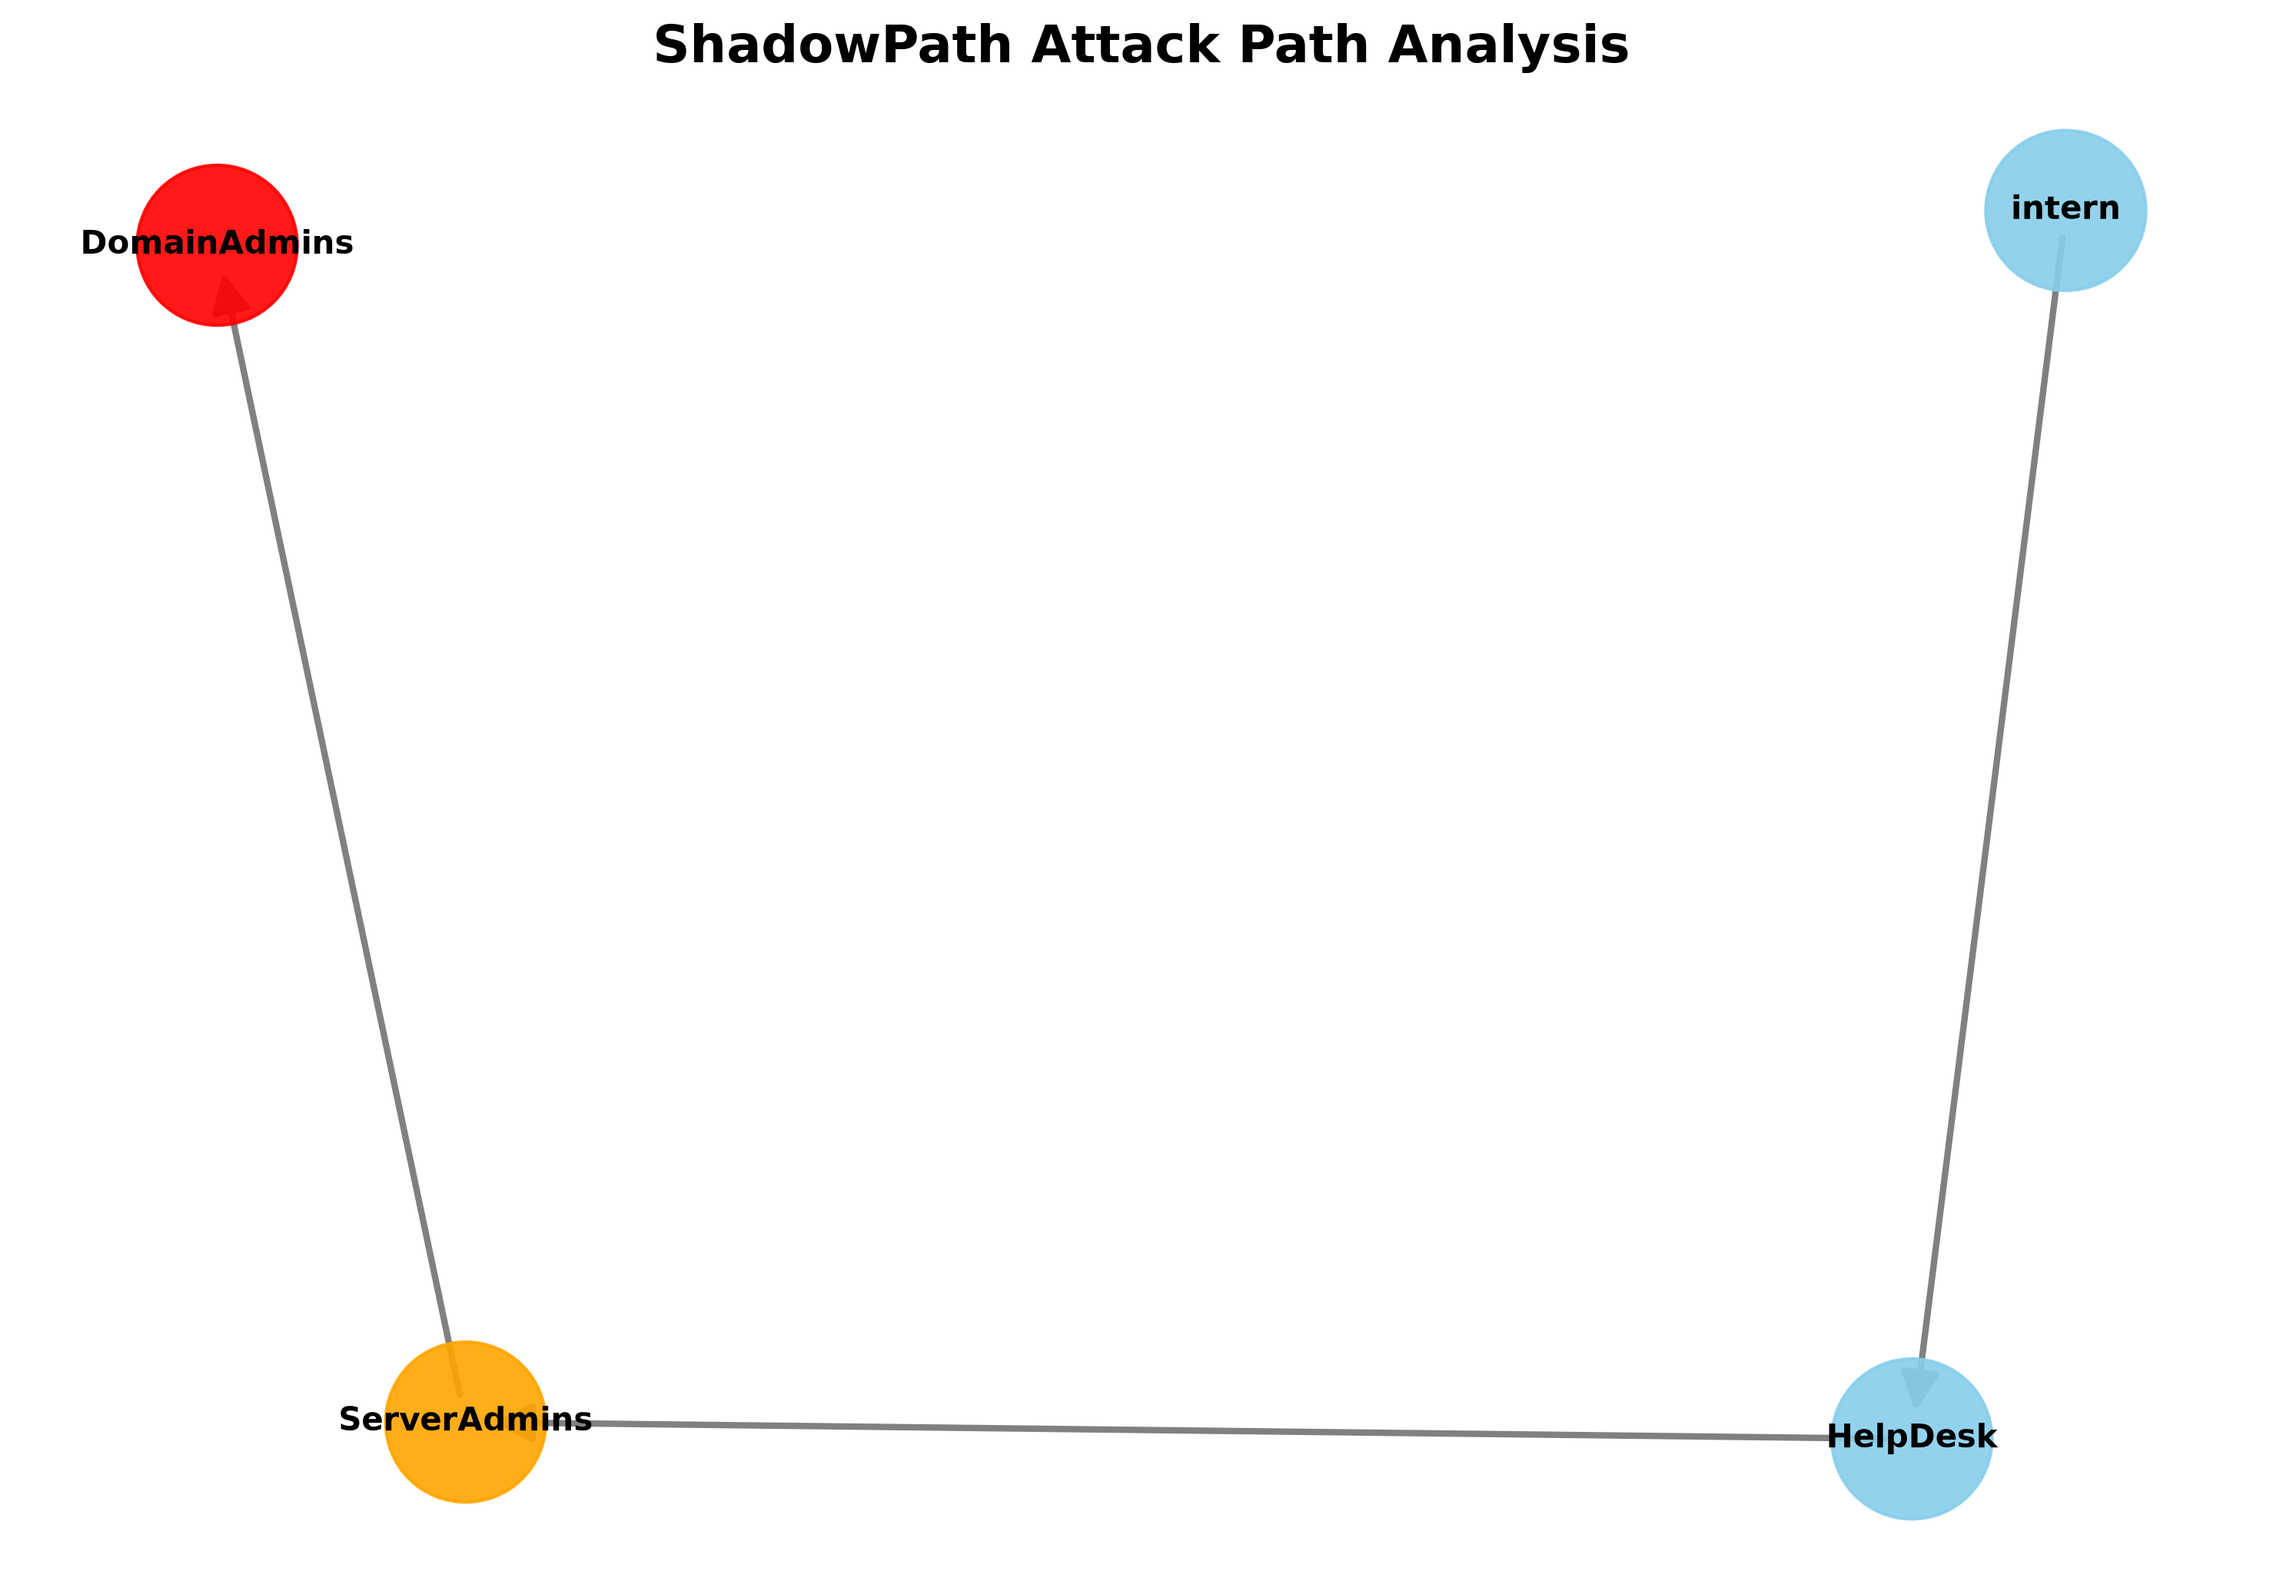
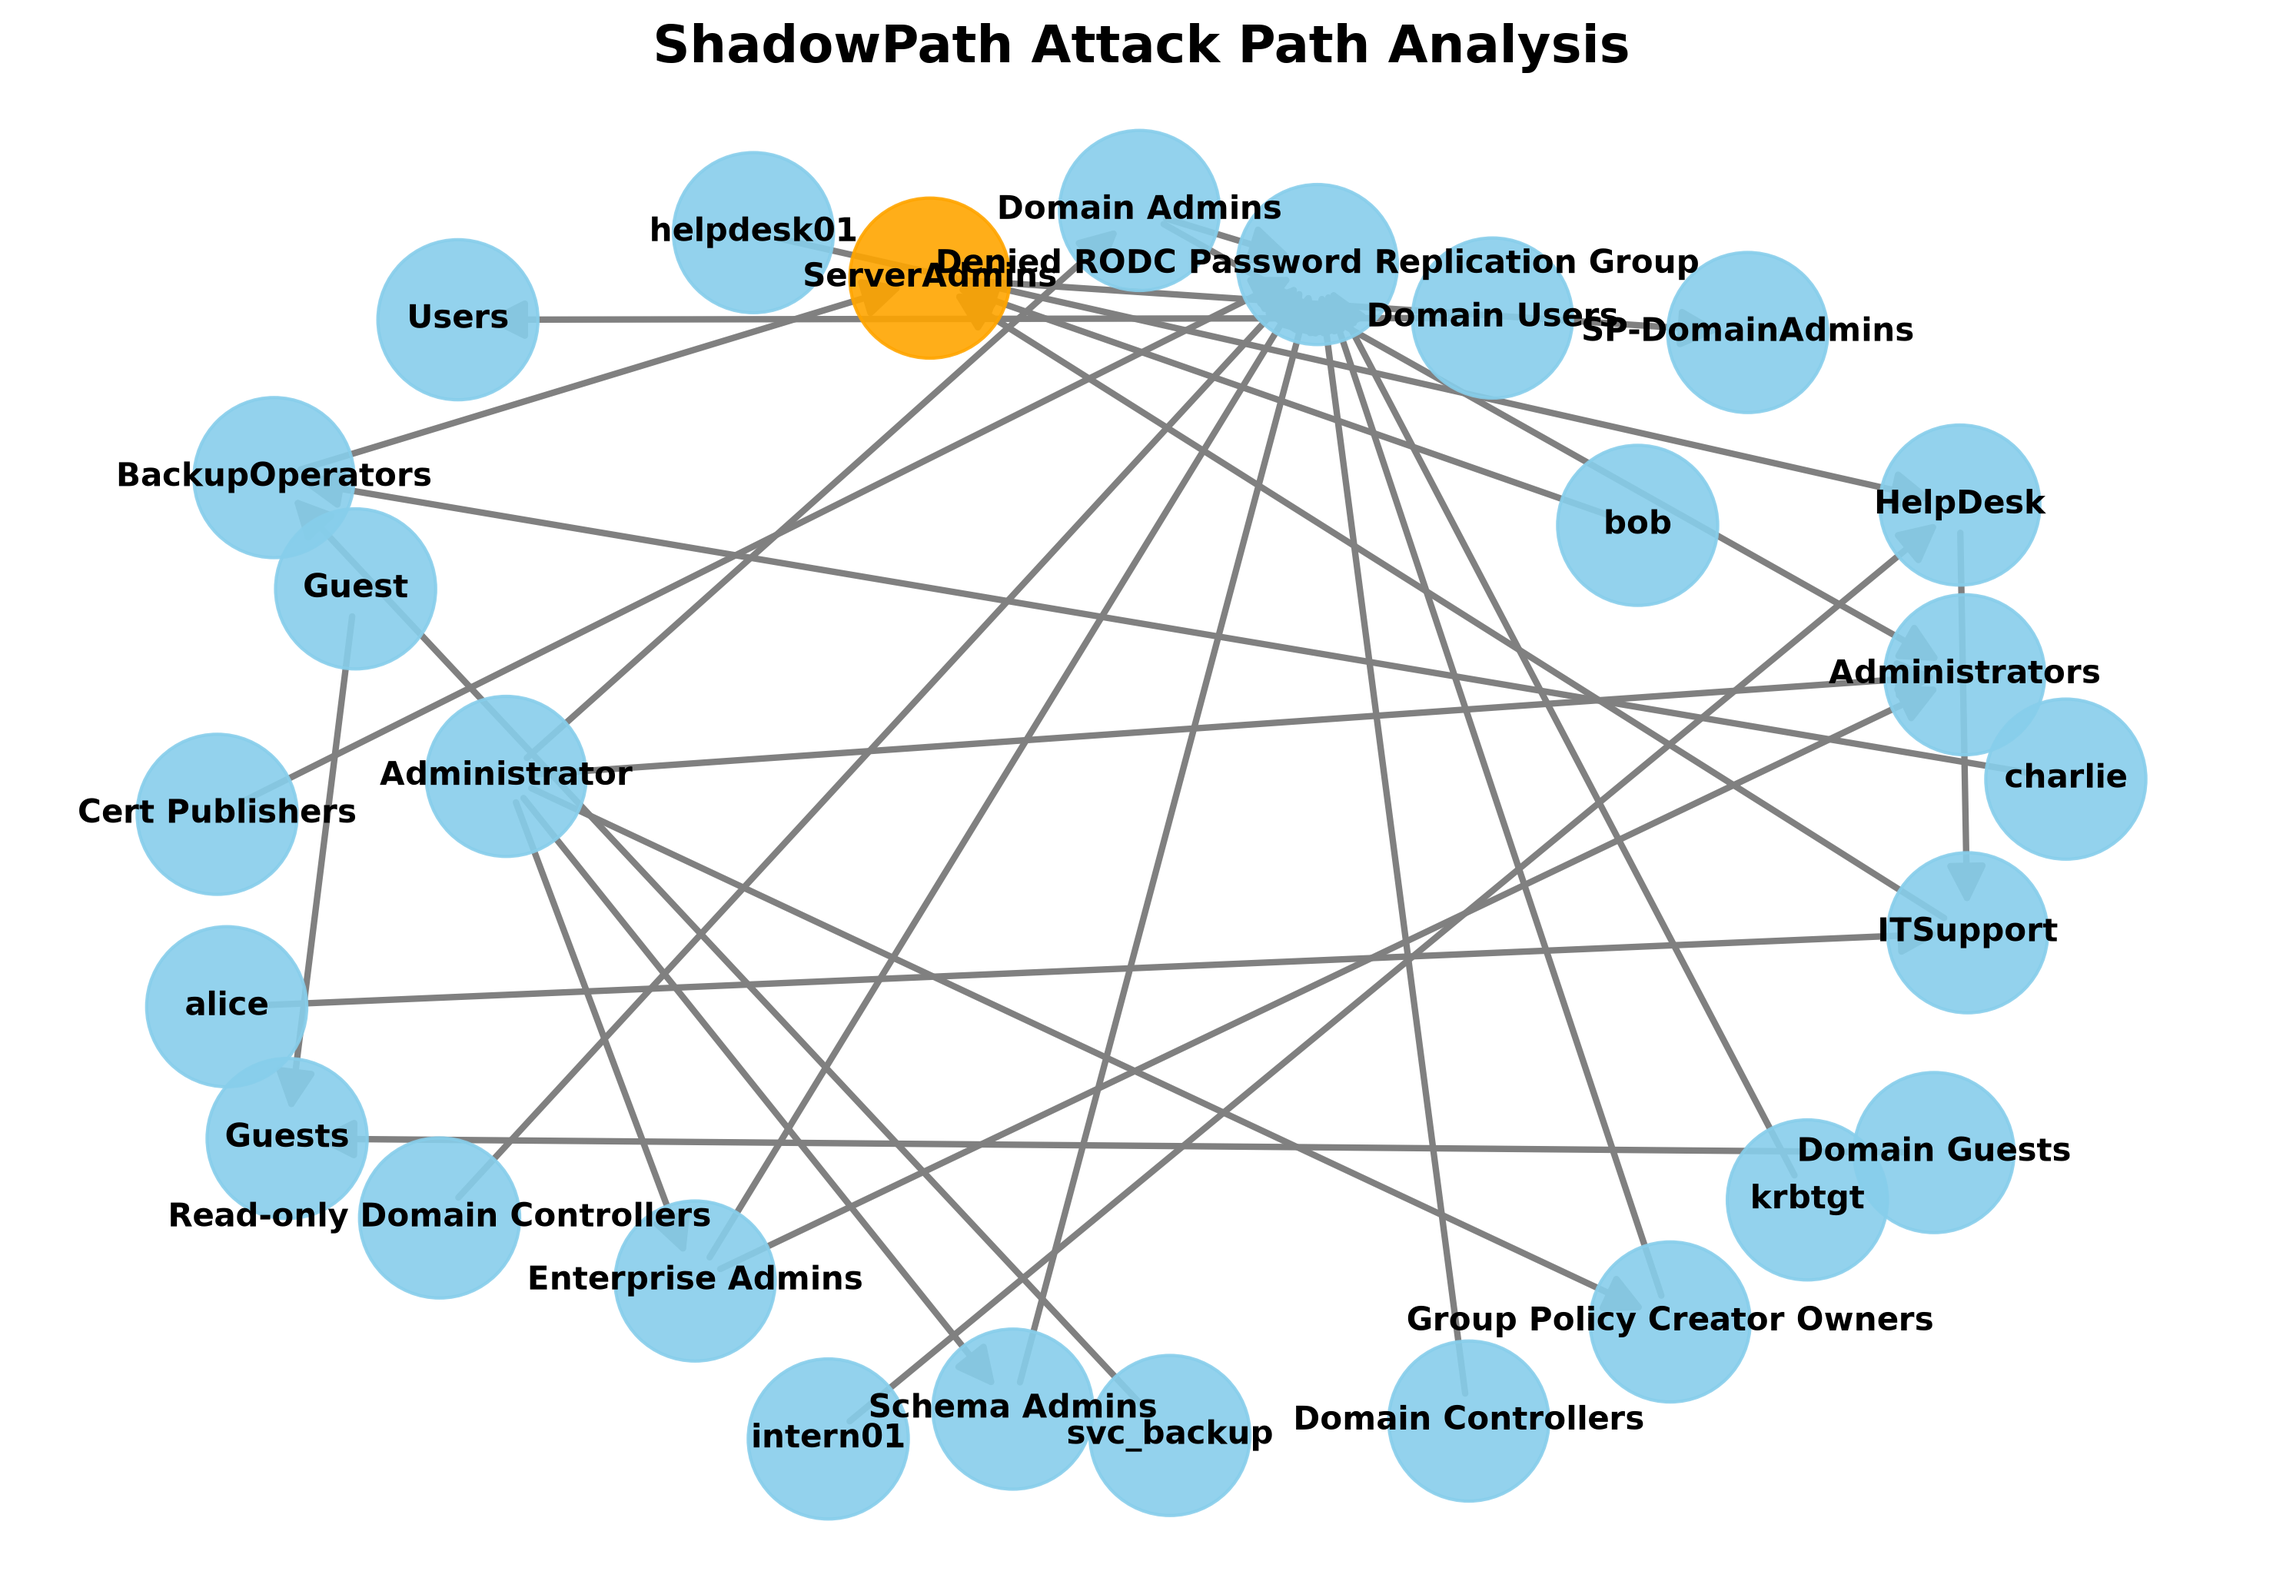
Integrate live Active Directory into analysis pipeline

diff --git a/src/main.py b/src/main.py
@@ -1,4 +1,5 @@
-from core.parser import load_relationships
+from ad.ldap_collector import LDAPCollector
+from ad.relationship_builder import RelationshipBuilder
 from core.graph_builder import build_graph
 
 from analysis.attack_paths import find_attack_paths
@@ -12,9 +13,18 @@ from visualization.graph_visualizer import visualize_graph
 
 
 def main():
-    relationships = load_relationships(
-        "../data/sample_domain.json"
+    collector = LDAPCollector(
+        server_ip="192.168.56.10",
+        username="SHADOWPATH\\Administrator",
+        password="Password123!",
+        base_dn="DC=shadowpath,DC=local"
     )
+
+    collector.connect()
+
+    builder = RelationshipBuilder(collector)
+
+    relationships = builder.build()
 
     print("Loaded Relationships:\n")
 

diff --git a/src/ad/relationship_builder.py b/src/ad/relationship_builder.py
@@ -1,10 +1,25 @@
-class RelationshipBuilder:
+from core.models import Relationship
+from ad.ldap_collector import LDAPCollector
 
-    def build_relationships(
-            self,
-            users,
-            groups
+
+class RelationshipBuilder:
+    def __init__(
+        self,
+        collector: LDAPCollector
     ):
+        self.collector = collector
+
+    def build(self) -> list[Relationship]:
+        memberships = self.collector.get_group_memberships()
+
         relationships = []
+
+        for membership in memberships:
+            relationships.append(
+                Relationship(
+                    source=membership["member"],
+                    target=membership["group"]
+                )
+            )
 
         return relationships

diff --git a/src/test_relationship.py b/src/test_relationship.py
@@ -1,0 +1,28 @@
+from ad.ldap_collector import LDAPCollector
+from ad.relationship_builder import RelationshipBuilder
+
+
+def main():
+    collector = LDAPCollector(
+        server_ip="192.168.56.10",
+        username="SHADOWPATH\\Administrator",
+        password="Password123!",
+        base_dn="DC=shadowpath,DC=local"
+    )
+
+    collector.connect()
+
+    builder = RelationshipBuilder(collector)
+
+    relationships = builder.build()
+
+    print("\nRelationships:\n")
+
+    for relationship in relationships:
+        print(
+            f"{relationship.source} -> {relationship.target}"
+        )
+
+
+if __name__ == "__main__":
+    main()
